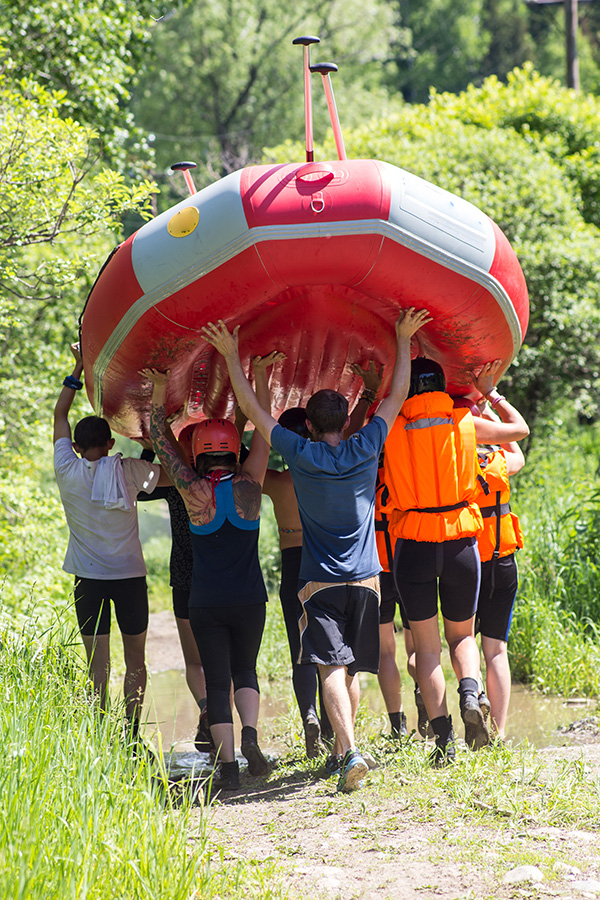
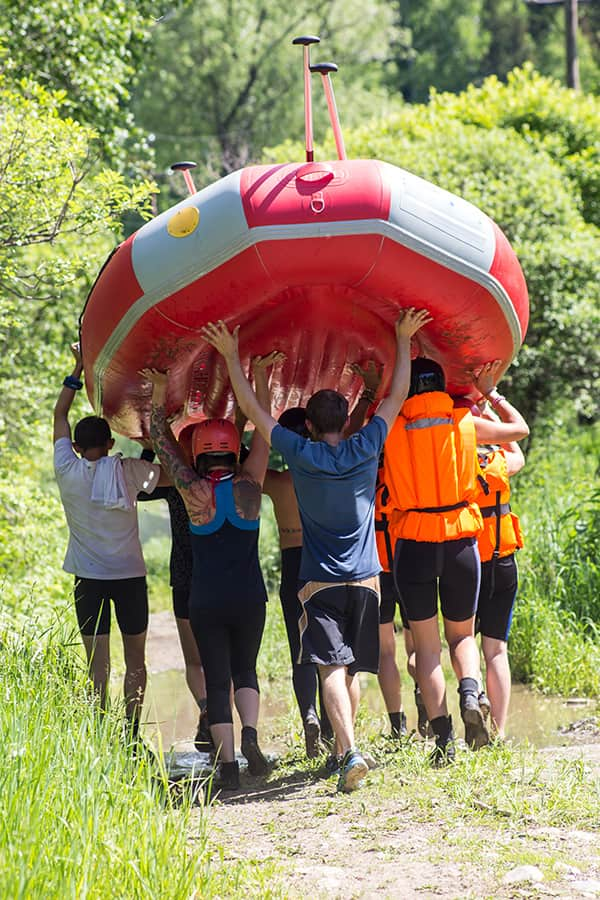
Update to wwr images

diff --git a/wwr/about.html b/wwr/about.html
@@ -21,7 +21,7 @@
             <img src="images/hero_image.jpg" alt="hero_image">
             <h1>White Water Rafting Resort</h1>
             <article>
-                <img src="images/rafting21_600.png" alt="Company logo">
+                <img src="images/rafting21_600.jpg" alt="Company logo">
                 <p>Lorem ipsum dolor sit amet consectetur adipisicing elit. Fugit voluptatem reiciendis beatae commodi non sit fuga, deleniti, optio enim numquam dolore? Sint ea alias rem laboriosam hic odit non, voluptatem sunt cupiditate nihil dolor consequatur inventore assumenda tempora doloremque temporibus. Unde blanditiis dolorum ipsam nemo, totam ab. Corrupti, dolor quos! Aperiam dolor ratione recusandae numquam amet saepe rem tempore nesciunt soluta, fugit error pariatur iste. Aperiam, qui. Officia debitis et repellendus consequuntur adipisci culpa. Minus nisi dolorem vel. Voluptate, ab velit. Eveniet reprehenderit dolorum animi dicta modi odio, ipsam ducimus. Laborum vitae vero at facere repellendus neque nisi dolores reiciendis.</p>       
             </article>
         </div>
@@ -35,7 +35,7 @@
             <img src="images/rafting52_600.jpg" alt="Rafting image2">
             <img src="images/rafting59_600.jpg" alt="Rafting image3">
             <img src="images/rafting65_600.jpg" alt="Rafting image4">
-            <img src="images/rafting21_600.png" alt="Rafting image5">
+            <img src="images/rafting21_600.jpg" alt="Rafting image5">
 
         </section>
     </main>
